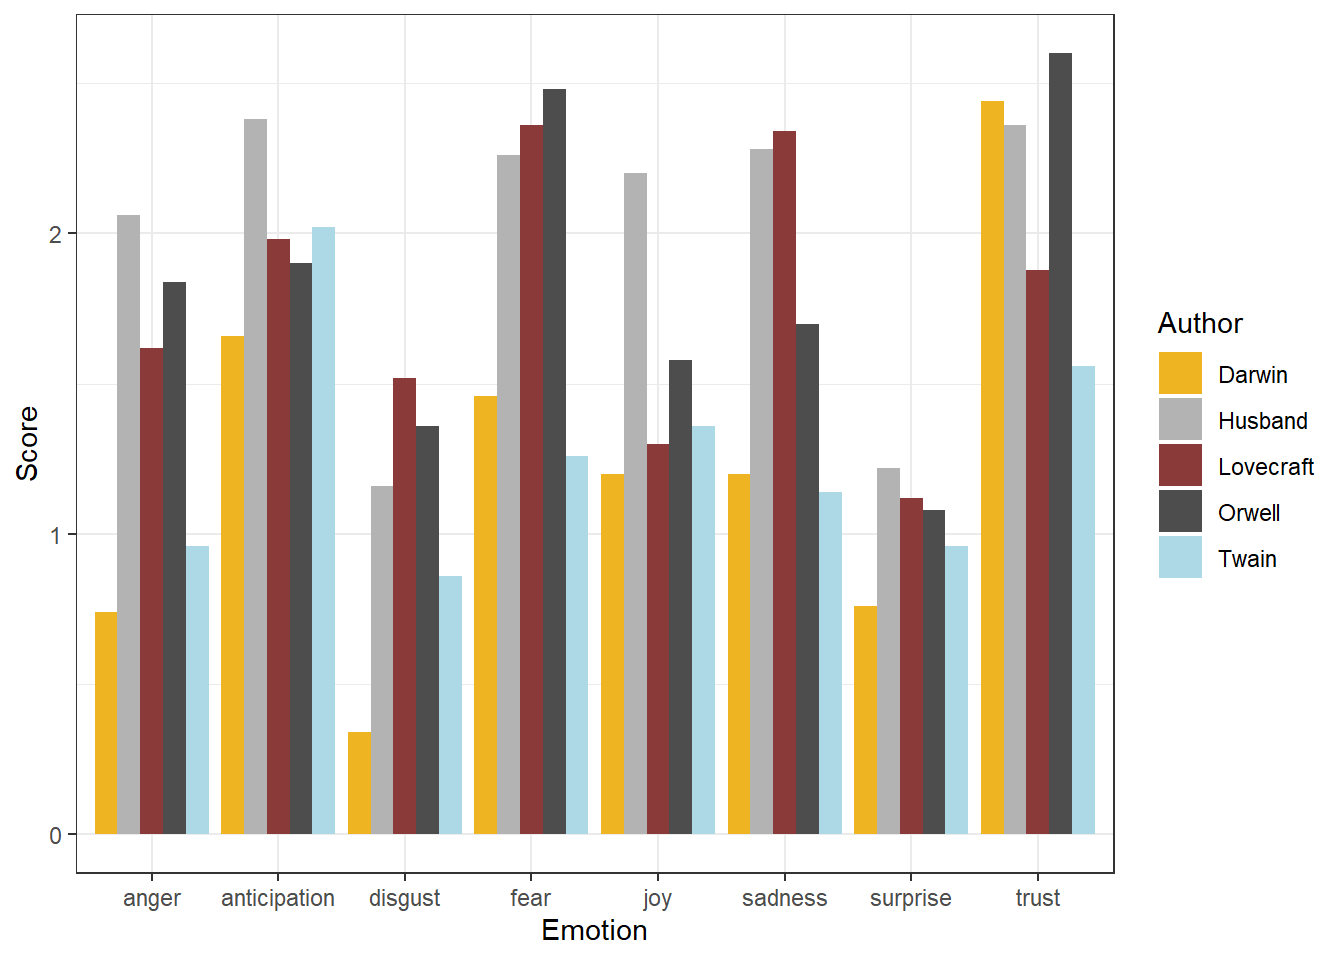
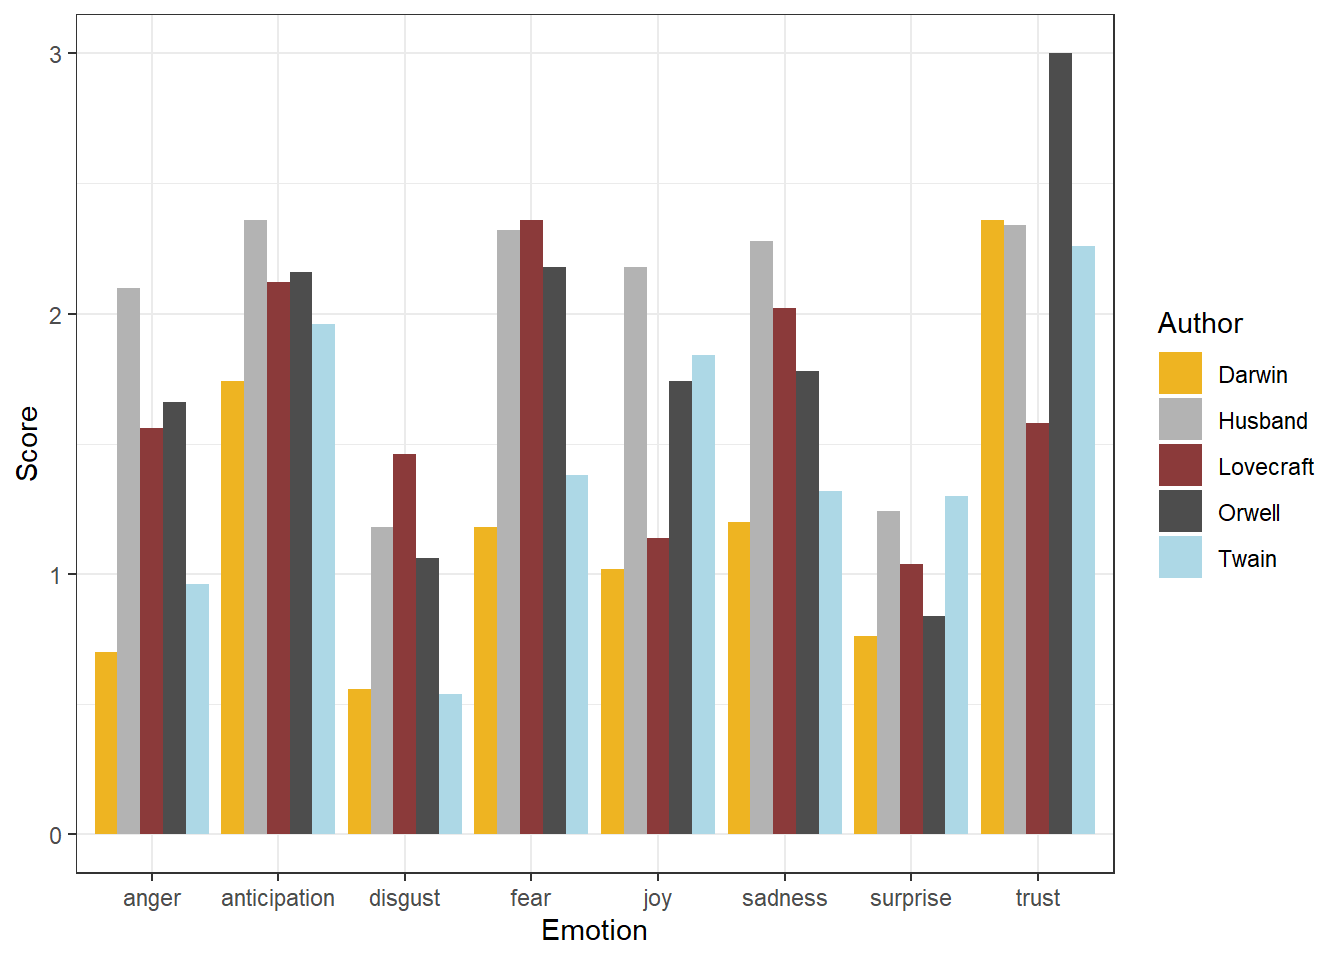
sentiment commit

diff --git a/sentiment.html b/sentiment.html
@@ -11,7 +11,7 @@
 
 <meta name="author" content="Martin Schweinberger" />
 
-<meta name="date" content="2020-09-26" />
+<meta name="date" content="2020-09-29" />
 
 <title>Sentiment Analysis in R</title>
 
@@ -514,7 +514,7 @@ div.tocify {
 
 <h1 class="title toc-ignore">Sentiment Analysis in R</h1>
 <h4 class="author">Martin Schweinberger</h4>
-<h4 class="date">2020-09-26</h4>
+<h4 class="date">2020-09-29</h4>
 
 </div>
 
@@ -535,10 +535,10 @@ install.packages(c(&quot;knitr&quot;, &quot;lattice&quot;, &quot;ggplot2&quot;, 
 </div>
 <div id="sentiment-analysis" class="section level1">
 <h1><span class="header-section-number">1</span> Sentiment Analysis</h1>
-<p>Sentiment Analysis is a cover term for approaches which extract information on emotion or opinion from natural language <span class="citation">(<span class="citeproc-not-found" data-reference-id="silge2017text"><strong>???</strong></span>)</span>. Sentiment analyses have been successfully applied to analysis of language data in a wide range of disciplines such as psychology, economics, education, as well as political and social sciences. Commonly sentiment analyses are used to determine the stance of a larger group of speakers towards a given phenomenon such as political candidates or parties, product lines or situations. Crucially, sentiment analyses are employed in these domains because they have advantages compared to alternative methods investigating the verbal expression of emotion. One advantage of sentiment analyses is that the emotion coding of sentiment analysis is fully replicable.</p>
+<p>Sentiment Analysis is a cover term for approaches which extract information on emotion or opinion from natural language <span class="citation">(Silge and Robinson <a href="#ref-silge2017text" role="doc-biblioref">2017</a>)</span>. Sentiment analyses have been successfully applied to analysis of language data in a wide range of disciplines such as psychology, economics, education, as well as political and social sciences. Commonly sentiment analyses are used to determine the stance of a larger group of speakers towards a given phenomenon such as political candidates or parties, product lines or situations. Crucially, sentiment analyses are employed in these domains because they have advantages compared to alternative methods investigating the verbal expression of emotion. One advantage of sentiment analyses is that the emotion coding of sentiment analysis is fully replicable.</p>
 <p>Typically, Sentiment Analysis represents a type of classifier only provide information about positive or negative polarity, e.g. whether a tweet is “positive” or “negative”. Therefore, Sentiment Analysis is often regarded as rather coarse-grained and, thus, rather irrelevant for the types of research questions in linguistics.</p>
 <p>In the language sciences, Sentiment Analysis can also be a very helpful tool if the type of Sentiment Analysis provides more fine-grained information. In the following, we will perform such a information-rich Sentiment Analysis. The Sentiment Analysis used here does not only provide information about polarity but it will also provide association values for eight core emotions.</p>
-<p>The more fine-grained output is made possible by relying on the Word-Emotion Association Lexicon (Mohammad &amp; Turney 2013), which comprises 10,170 terms, and in which lexical elements are assigned scores based on ratings gathered through the crowd-sourced Amazon Mechanical Turk service. For the Word-Emotion Association Lexicon raters were asked whether a given word was associated with one of eight emotions. The resulting associations between terms and emotions are based on 38,726 ratings from 2,216 raters who answered a sequence of questions for each word which were then fed into the emotion association rating (see <span class="citation">Mohammad and Turney (<a href="#ref-mohammad2013crowdsourcing" role="doc-biblioref">2013</a>)</span>). Each term was rated 5 times. For 85 percent of words, at least 4 raters provided identical ratings. For instance, the word <em>cry</em> or <em>tragedy</em> are more readily associated with SADNESS while words such as <em>happy</em> or <em>beautiful</em> are indicative of JOY and words like <em>fit</em> or <em>burst</em> may indicate ANGER. This means that the sentiment analysis here allows us to investigate the expression of certain core emotions rather than merely classifying statements along the lines of a crude positive-negative distinction.</p>
+<p>The more fine-grained output is made possible by relying on the Word-Emotion Association Lexicon <span class="citation">(@ Mohammad and Turney <a href="#ref-mohammad2013crowdsourcing" role="doc-biblioref">2013</a>)</span>, which comprises 10,170 terms, and in which lexical elements are assigned scores based on ratings gathered through the crowd-sourced Amazon Mechanical Turk service. For the Word-Emotion Association Lexicon raters were asked whether a given word was associated with one of eight emotions. The resulting associations between terms and emotions are based on 38,726 ratings from 2,216 raters who answered a sequence of questions for each word which were then fed into the emotion association rating (see <span class="citation">Mohammad and Turney (<a href="#ref-mohammad2013crowdsourcing" role="doc-biblioref">2013</a>)</span>). Each term was rated 5 times. For 85 percent of words, at least 4 raters provided identical ratings. For instance, the word <em>cry</em> or <em>tragedy</em> are more readily associated with SADNESS while words such as <em>happy</em> or <em>beautiful</em> are indicative of JOY and words like <em>fit</em> or <em>burst</em> may indicate ANGER. This means that the sentiment analysis here allows us to investigate the expression of certain core emotions rather than merely classifying statements along the lines of a crude positive-negative distinction.</p>
 <div id="getting-started" class="section level2 unnumbered">
 <h2>Getting started</h2>
 <p>Before turning to the SA, we will load the packages for this tutorial.</p>
@@ -613,17 +613,17 @@ rownames(emo) &lt;- gsub(&quot;emos&quot;, &quot;&quot;, rownames(emo))
 # inspect data
 head(emo)</code></pre>
 <pre><code>##           anger anticipation disgust fear  joy sadness surprise trust negative
-## darwin     0.74         1.66    0.34 1.46 1.20    1.20     0.76  2.44     2.66
-## twain      0.96         2.02    0.86 1.26 1.36    1.14     0.96  1.56     2.44
-## orwell     1.84         1.90    1.36 2.48 1.58    1.70     1.08  2.60     4.20
-## lovecraft  1.62         1.98    1.52 2.36 1.30    2.34     1.12  1.88     4.58
-## husband    2.06         2.38    1.16 2.26 2.20    2.28     1.22  2.36     4.36
+## darwin     0.70         1.74    0.56 1.18 1.02    1.20     0.76  2.36     2.24
+## twain      0.96         1.96    0.54 1.38 1.84    1.32     1.30  2.26     2.34
+## orwell     1.66         2.16    1.06 2.18 1.74    1.78     0.84  3.00     3.68
+## lovecraft  1.56         2.12    1.46 2.36 1.14    2.02     1.04  1.58     4.10
+## husband    2.10         2.36    1.18 2.32 2.18    2.28     1.24  2.34     4.42
 ##           positive
-## darwin        3.54
-## twain         2.68
-## orwell        3.78
-## lovecraft     2.94
-## husband       4.42</code></pre>
+## darwin        4.12
+## twain         3.12
+## orwell        4.34
+## lovecraft     2.86
+## husband       4.44</code></pre>
 <pre class="r"><code>#convert into data frame
 emo &lt;- as.data.frame(emo)
 # add author column
@@ -635,12 +635,12 @@ emol &lt;- gather(emo, Emotion, Score, anger:positive, factor_key=TRUE)
 # inspect data
 head(emol)</code></pre>
 <pre><code>##      Author      Emotion Score
-## 1    Darwin        anger  0.74
+## 1    Darwin        anger  0.70
 ## 2     Twain        anger  0.96
-## 3    Orwell        anger  1.84
-## 4 Lovecraft        anger  1.62
-## 5   Husband        anger  2.06
-## 6    Darwin anticipation  1.66</code></pre>
+## 3    Orwell        anger  1.66
+## 4 Lovecraft        anger  1.56
+## 5   Husband        anger  2.10
+## 6    Darwin anticipation  1.74</code></pre>
 <p>Based on this table, we can now visualise the relative emotion scores for each book.</p>
 <pre class="r"><code># load library
 library(ggplot2)
@@ -716,6 +716,9 @@ ggplot(emol2,                   # plot barplotdatagg1
 <div id="refs" class="references">
 <div id="ref-mohammad2013crowdsourcing">
 <p>Mohammad, Saif M, and Peter D Turney. 2013. “Crowdsourcing a Word-Emotion Association Lexicon.” <em>Computational Intelligence</em> 29 (3): 436–65.</p>
+</div>
+<div id="ref-silge2017text">
+<p>Silge, Julia, and David Robinson. 2017. <em>Text Mining with R: A Tidy Approach</em>. " O’Reilly Media, Inc.".</p>
 </div>
 </div>
 </div>
